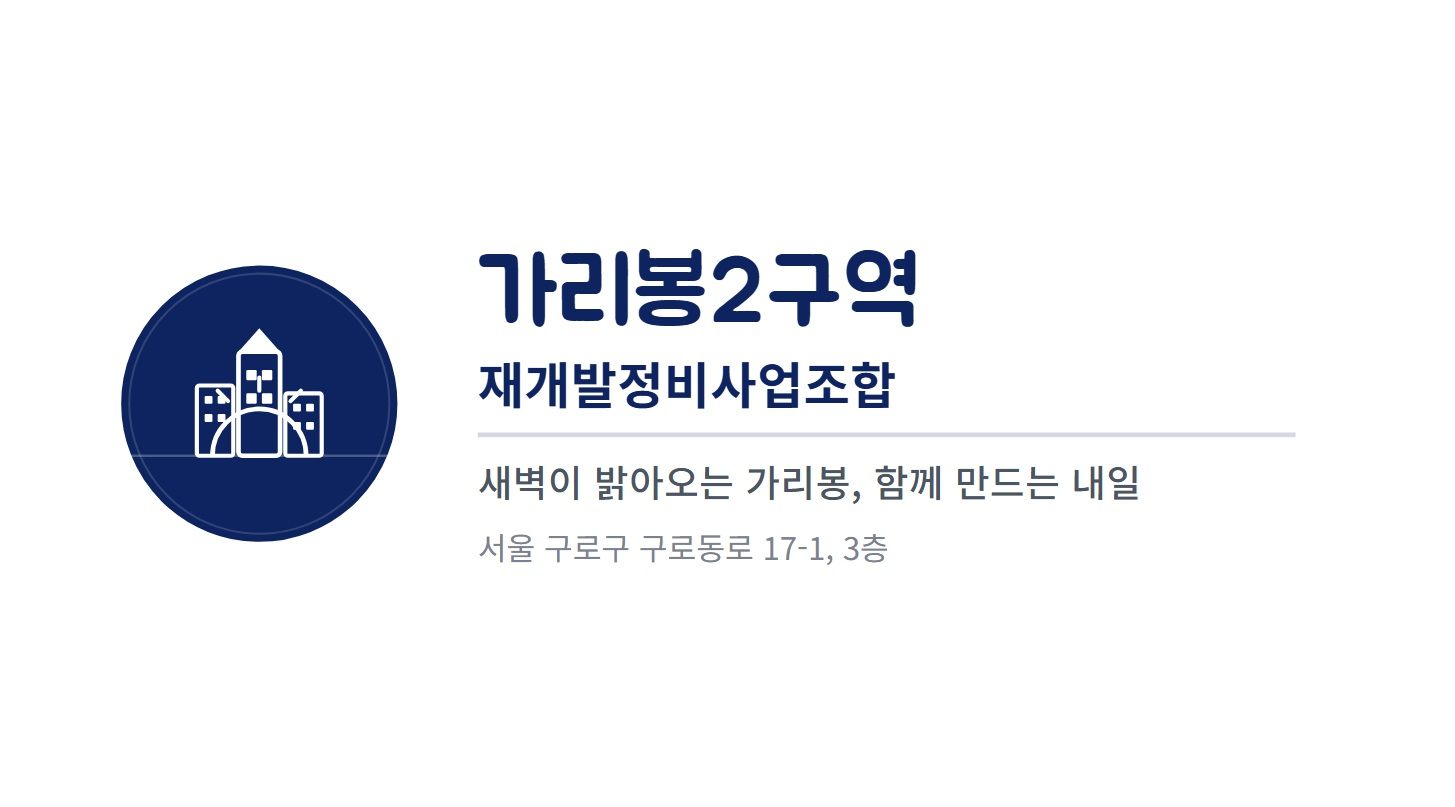
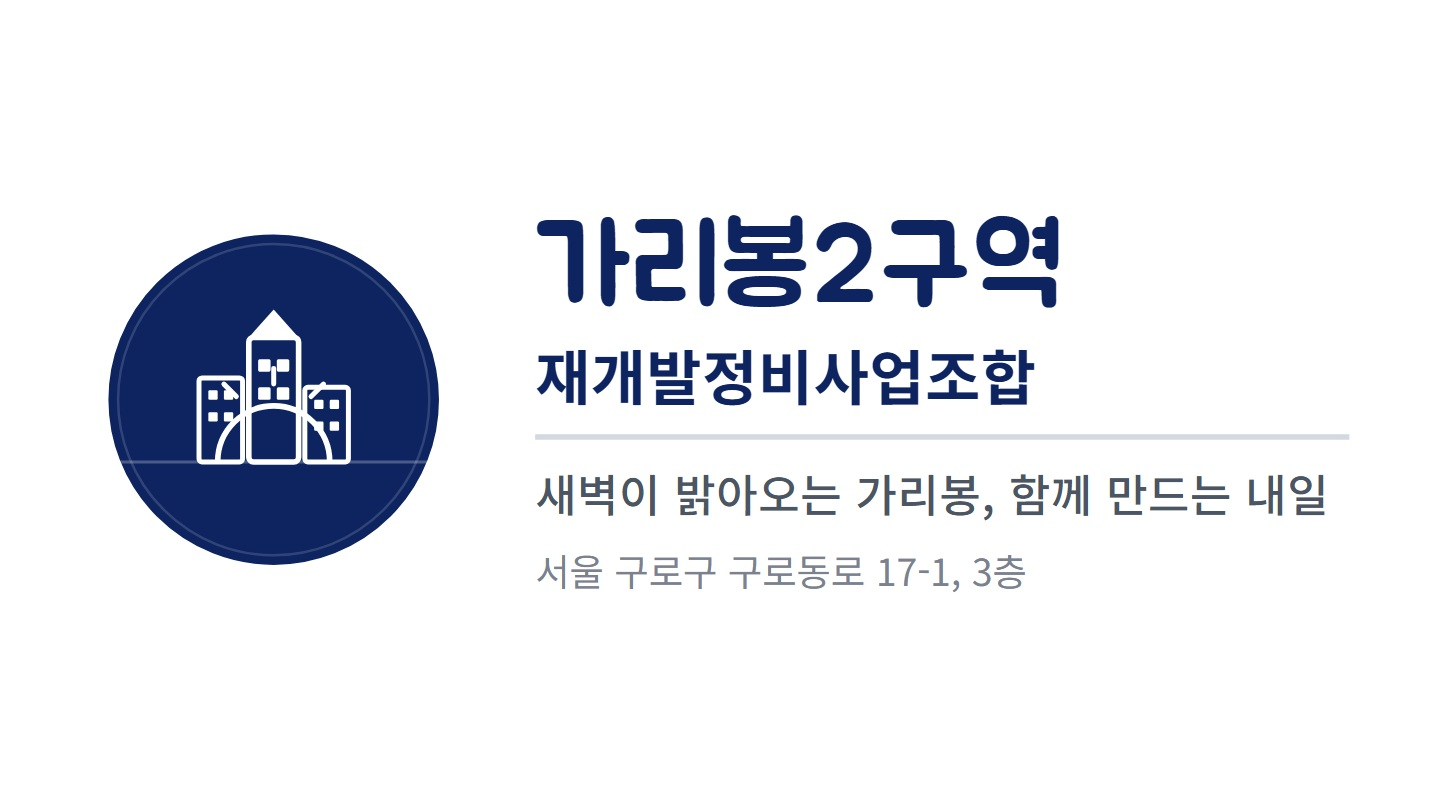
Card back: center symbol+text lockup (tight viewBox + balanced divider), regenerate back JPG/PDF

Changed region(s): [[0.0619, 0.2788, 0.9278, 0.7435], [0.3093, 0.2478, 0.7423, 0.4027]]

diff --git a/cards.html b/cards.html
@@ -61,6 +61,7 @@
     .card.back .sig-img {
       width: 100%;
       height: auto;
+      display: block;
     }
 
     /* 본문 — 그래픽과 정보를 수직 중앙 + 좌우 균등 배치 */
@@ -212,7 +213,7 @@ document.getElementById('grid').innerHTML = people.map(pp => `
   </div>`).join('');
 
 // 뒷면 — 홈페이지 풀 시그니처(inline, 페이지 Jua 폰트 적용)
-const SIGNATURE = `<svg class="sig-img" xmlns="http://www.w3.org/2000/svg" viewBox="0 0 420 160">
+const SIGNATURE = `<svg class="sig-img" xmlns="http://www.w3.org/2000/svg" viewBox="6 26 351 110">
   <defs><clipPath id="sigc"><circle cx="60" cy="60" r="54"/></clipPath></defs>
   <svg x="10" y="30" width="100" height="100" viewBox="0 0 120 120">
     <circle cx="60" cy="60" r="54" fill="#0d2461"/>
@@ -236,7 +237,7 @@ const SIGNATURE = `<svg class="sig-img" xmlns="http://www.w3.org/2000/svg" viewB
   </svg>
   <text class="brand" x="130" y="54" font-size="30" fill="#0d2461" letter-spacing="1">가리봉2구역</text>
   <text x="130" y="80" font-family="'Noto Sans KR',sans-serif" font-size="16" font-weight="600" fill="#0d2461" letter-spacing="0.2">재개발정비사업조합</text>
-  <line x1="130" y1="90" x2="392" y2="90" stroke="#d4d8e0" stroke-width="1.5"/>
+  <line x1="130" y1="90" x2="348" y2="90" stroke="#d4d8e0" stroke-width="1.5"/>
   <text x="130" y="110" font-family="'Noto Sans KR',sans-serif" font-size="12" font-weight="500" fill="#4b5563" letter-spacing="0.2">새벽이 밝아오는 가리봉, 함께 만드는 내일</text>
   <text x="130" y="130" font-family="'Noto Sans KR',sans-serif" font-size="10" font-weight="400" fill="#7a8290">서울 구로구 구로동로 17-1, 3층</text>
 </svg>`;